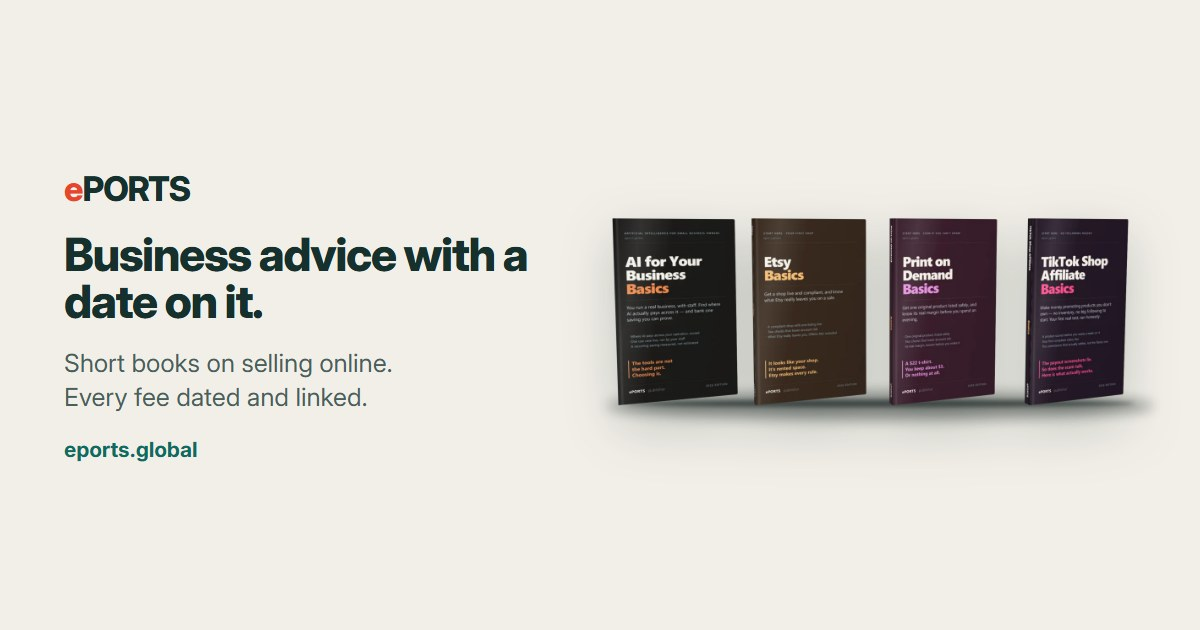
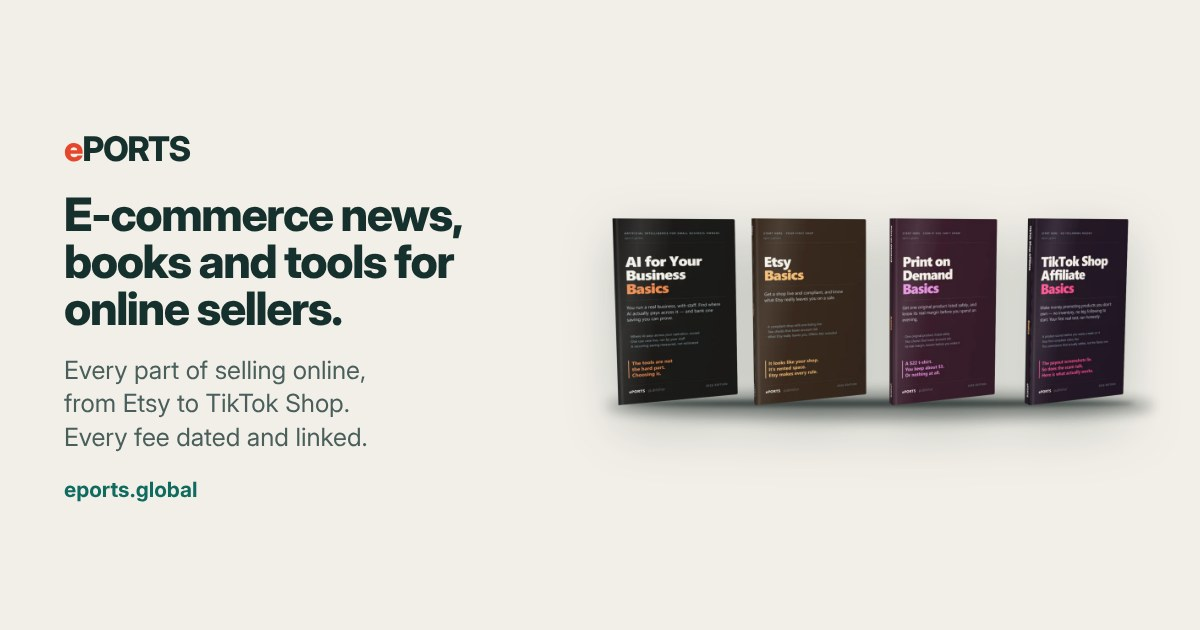
Present ePORTS as e-commerce news, books and tools: panel-checked home and About wording (eports PR #18, #21; Femi approved on the To-Do 30 Oct)
Claude-Session: https://claude.ai/code/session_017irjDCnJdX2Kb2GspifC1h

Changed region(s): [[0.0308, 0.2111, 0.4625, 0.5127], [0.0308, 0.5429, 0.3392, 0.8143]]

diff --git a/index.html b/index.html
@@ -3,8 +3,8 @@
 <head>
 <meta charset="utf-8">
 <meta name="viewport" content="width=device-width, initial-scale=1">
-<title>ePORTS — business advice with a date on it</title>
-<meta name="description" content="Your ecom source: dated, sourced news for online sellers, plus short, honest books in eight subjects and three levels. Every fee, rate and platform rule carries the date it was last checked and a link to the platform's own page, and every book comes with free worksheets and calculators.">
+<title>ePORTS — e-commerce news, books and tools for online sellers</title>
+<meta name="description" content="Your ecom source: e-commerce news, books and free tools covering every part of selling online, from Etsy, eBay and reselling to print on demand, dropshipping, digital products, TikTok Shop and AI for small business. Every fee and rule is dated and sourced.">
 <link rel="canonical" href="https://eports.global/">
 <meta name="robots" content="index,follow">
 <meta name="p:domain_verify" content="76d588c31ff83453374175ef60677462"/>
@@ -28,21 +28,21 @@
 <link rel="stylesheet" href="./assets/shell.css?v=20261027">
 <meta property="og:type" content="website">
 <meta property="og:site_name" content="ePORTS">
-<meta property="og:title" content="ePORTS — business advice with a date on it">
-<meta property="og:description" content="Your ecom source: dated, sourced news for online sellers, plus short, honest books in eight subjects and three levels. Every fee, rate and platform rule carries the date it was last checked and a link to the platform&#x27;s own page, and every book comes with free worksheets and calculators.">
+<meta property="og:title" content="ePORTS — e-commerce news, books and tools for online sellers">
+<meta property="og:description" content="Your ecom source: e-commerce news, books and free tools covering every part of selling online, from Etsy, eBay and reselling to print on demand, dropshipping, digital products, TikTok Shop and AI for small business. Every fee and rule is dated and sourced.">
 <meta property="og:url" content="https://eports.global/">
 <meta property="og:image" content="https://eports.global/assets/share/home.jpg">
 <meta property="og:image:secure_url" content="https://eports.global/assets/share/home.jpg">
 <meta property="og:image:type" content="image/jpeg">
 <meta property="og:image:width" content="1200">
 <meta property="og:image:height" content="630">
-<meta property="og:image:alt" content="ePORTS books and free tools: ePORTS — business advice with a date on it">
+<meta property="og:image:alt" content="ePORTS books and free tools: ePORTS — e-commerce news, books and tools for online sellers">
 <meta name="twitter:card" content="summary_large_image">
-<meta name="twitter:title" content="ePORTS — business advice with a date on it">
-<meta name="twitter:description" content="Your ecom source: dated, sourced news for online sellers, plus short, honest books in eight subjects and three levels. Every fee, rate and platform rule carries the date it was last checked and a link to the platform&#x27;s own page, and every book comes with free worksheets and calculators.">
+<meta name="twitter:title" content="ePORTS — e-commerce news, books and tools for online sellers">
+<meta name="twitter:description" content="Your ecom source: e-commerce news, books and free tools covering every part of selling online, from Etsy, eBay and reselling to print on demand, dropshipping, digital products, TikTok Shop and AI for small business. Every fee and rule is dated and sourced.">
 <meta name="twitter:image" content="https://eports.global/assets/share/home.jpg">
-<meta name="twitter:image:alt" content="ePORTS books and free tools: ePORTS — business advice with a date on it">
-<!--ep-seo--><script type="application/ld+json">{"@context": "https://schema.org", "@graph": [{"@type": "Organization", "@id": "https://eports.global/#org", "name": "ePORTS", "legalName": "ePORTS LLC", "url": "https://eports.global/", "slogan": "your ecom source.", "logo": "https://eports.global/assets/share/home.jpg", "description": "Dated, sourced news, short guidebooks and free tools for people who sell online. Every fee and platform rule carries the date it was last checked and a link to its source.", "sameAs": ["https://shop.eports.global/"]}, {"@type": "WebSite", "@id": "https://eports.global/#site", "name": "ePORTS", "url": "https://eports.global/", "publisher": {"@id": "https://eports.global/#org"}, "inLanguage": "en-US"}]}</script>
+<meta name="twitter:image:alt" content="ePORTS books and free tools: ePORTS — e-commerce news, books and tools for online sellers">
+<!--ep-seo--><script type="application/ld+json">{"@context": "https://schema.org", "@graph": [{"@type": "Organization", "@id": "https://eports.global/#org", "name": "ePORTS", "legalName": "ePORTS LLC", "url": "https://eports.global/", "slogan": "your ecom source.", "logo": "https://eports.global/assets/share/home.jpg", "description": "E-commerce news and products for people who sell online: news, short guidebooks and free tools covering every part of e-commerce. Every fee and platform rule carries the date it was last checked and a link to its source.", "sameAs": ["https://shop.eports.global/"]}, {"@type": "WebSite", "@id": "https://eports.global/#site", "name": "ePORTS", "url": "https://eports.global/", "publisher": {"@id": "https://eports.global/#org"}, "inLanguage": "en-US"}]}</script>
 </head>
 <body>
 <!--ep-shell:head-->
@@ -64,16 +64,16 @@
   <div class="wb-wrap wb-hero-split">
     <div style="display:grid;gap:1.15rem">
       <p class="wb-eyebrow">News · Books · Free tools</p>
-      <h1 id="title">Business advice with a <span class="wb-scribble">date<svg viewBox="0 0 100 12" preserveAspectRatio="none" aria-hidden="true"><path d="M2 8 C 22 3, 48 11, 98 4"/></svg></span> on it.</h1>
-      <p class="wb-lede">Every fee and every platform rule in our news, books and tools carries <em>the date we
-        last checked it</em>, plus a link to the page we checked it on. So you never have to take our word for
-        anything.</p>
+      <h1 id="title">E-commerce news, books and tools for online sellers.</h1>
+      <p class="wb-lede">News, books and free tools for every part of selling online: Etsy, eBay and reselling, print
+        on demand, dropshipping, digital products, TikTok Shop and AI for small business. Every fee and rule carries
+        <em>the date we checked it</em> and a link to the source.</p>
       <div class="wb-actions">
-        <a class="wb-btn" href="resources/">See the current fees and rules</a>
-        <a class="wb-btn-quiet" href="#books">Browse the 8 subjects →</a>
+        <a class="wb-btn" href="news/">Read the latest news</a>
+        <a class="wb-btn-quiet" href="#books">Explore all 8 subjects →</a>
       </div>
-      <p class="wb-lede" style="font-size:.95rem">No cost, no email, no sign-up. It&rsquo;s the actual page we keep
-        current, not a sample chapter with the useful part removed.</p>
+      <p class="wb-lede" style="font-size:.95rem">The news, <a href="resources/">tools and fee pages</a> are free.
+        No email or sign-up needed.</p>
     </div>
     <figure class="wb-render">
       <img src="assets/renders/hero-mix.webp" alt="Four ePORTS books: AI for Your Business, Etsy, Print on Demand and TikTok Shop Affiliate, each at Basics level" width="1400" height="688">

diff --git a/about/index.html b/about/index.html
@@ -4,7 +4,7 @@
 <meta charset="utf-8">
 <meta name="viewport" content="width=device-width, initial-scale=1">
 <title>About ePORTS: who we are, how we check, and corrections | ePORTS</title>
-<meta name="description" content="Who publishes ePORTS, who edits it, how we check, the rules every article follows, and how to report an error. Plain English.">
+<meta name="description" content="About ePORTS, an e-commerce news and products business covering every part of selling online: who publishes and edits it, how we check, and how to report an error.">
 <link rel="canonical" href="https://eports.global/about/">
 <link rel="stylesheet" href="../assets/fonts/fonts.css">
 <link rel="stylesheet" href="../assets/workbench.css">
@@ -15,7 +15,7 @@
 <meta property="og:type" content="website">
 <meta property="og:site_name" content="ePORTS">
 <meta property="og:title" content="About ePORTS: who we are, how we check, and corrections | ePORTS">
-<meta property="og:description" content="Who publishes ePORTS, who edits it, how we check, the rules every article follows, and how to report an error. Plain English.">
+<meta property="og:description" content="About ePORTS, an e-commerce news and products business covering every part of selling online: who publishes and edits it, how we check, and how to report an error.">
 <meta property="og:url" content="https://eports.global/about/">
 <meta property="og:image" content="https://eports.global/assets/share/home.jpg">
 <meta property="og:image:secure_url" content="https://eports.global/assets/share/home.jpg">
@@ -25,11 +25,11 @@
 <meta property="og:image:alt" content="ePORTS books and free tools: About ePORTS: who we are, how we check, and corrections">
 <meta name="twitter:card" content="summary_large_image">
 <meta name="twitter:title" content="About ePORTS: who we are, how we check, and corrections | ePORTS">
-<meta name="twitter:description" content="Who publishes ePORTS, who edits it, how we check, the rules every article follows, and how to report an error. Plain English.">
+<meta name="twitter:description" content="About ePORTS, an e-commerce news and products business covering every part of selling online: who publishes and edits it, how we check, and how to report an error.">
 <meta name="twitter:image" content="https://eports.global/assets/share/home.jpg">
 <meta name="twitter:image:alt" content="ePORTS books and free tools: About ePORTS: who we are, how we check, and corrections">
 <meta name="robots" content="max-image-preview:large">
-<!--ep-seo--><script type="application/ld+json">{"@context": "https://schema.org", "@graph": [{"@type": "Organization", "@id": "https://eports.global/#org", "name": "ePORTS", "legalName": "ePORTS LLC", "url": "https://eports.global/", "slogan": "your ecom source.", "logo": "https://eports.global/assets/share/home.jpg", "description": "Dated, sourced news, short guidebooks and free tools for people who sell online. Every fee and platform rule carries the date it was last checked and a link to its source.", "sameAs": ["https://shop.eports.global/"]}, {"@type": "WebSite", "@id": "https://eports.global/#site", "name": "ePORTS", "url": "https://eports.global/", "publisher": {"@id": "https://eports.global/#org"}, "inLanguage": "en-US"}]}</script><script type="application/ld+json">{"@context": "https://schema.org", "@type": "BreadcrumbList", "itemListElement": [{"@type": "ListItem", "position": 1, "name": "ePORTS", "item": "https://eports.global/"}, {"@type": "ListItem", "position": 2, "name": "About ePORTS: who we are, how we check, and corrections", "item": "https://eports.global/about/"}]}</script>
+<!--ep-seo--><script type="application/ld+json">{"@context": "https://schema.org", "@graph": [{"@type": "Organization", "@id": "https://eports.global/#org", "name": "ePORTS", "legalName": "ePORTS LLC", "url": "https://eports.global/", "slogan": "your ecom source.", "logo": "https://eports.global/assets/share/home.jpg", "description": "E-commerce news and products for people who sell online: news, short guidebooks and free tools covering every part of e-commerce. Every fee and platform rule carries the date it was last checked and a link to its source.", "sameAs": ["https://shop.eports.global/"]}, {"@type": "WebSite", "@id": "https://eports.global/#site", "name": "ePORTS", "url": "https://eports.global/", "publisher": {"@id": "https://eports.global/#org"}, "inLanguage": "en-US"}]}</script><script type="application/ld+json">{"@context": "https://schema.org", "@type": "BreadcrumbList", "itemListElement": [{"@type": "ListItem", "position": 1, "name": "ePORTS", "item": "https://eports.global/"}, {"@type": "ListItem", "position": 2, "name": "About ePORTS: who we are, how we check, and corrections", "item": "https://eports.global/about/"}]}</script>
 </head>
 <body>
 <!--ep-shell:head-->
@@ -50,9 +50,10 @@
   <div class="wb-wrap">
     <p class="wb-eyebrow">About ePORTS</p>
     <h1 id="title">Who we are, and how we check</h1>
-    <p class="wb-lede">ePORTS publishes short, practical guides and news for people who sell online, or are thinking about
-      it. <em>Every fee, rate and rule we print carries the date we checked it and a link to the page it came from,</em>
-      so you never have to take our word for anything.</p>
+    <p class="wb-lede">ePORTS publishes e-commerce news, books and tools for people who sell online, or want to start.
+      We cover every part of it, from Etsy, eBay and reselling to print on demand, dropshipping, digital products,
+      TikTok Shop and AI for small business. <em>Every fee, rate and rule we print carries the date we checked it and a
+      link to the page it came from,</em> so you can check it yourself.</p>
   </div>
 </section>
 

diff --git a/news/index.html b/news/index.html
@@ -4,7 +4,7 @@
 <meta charset="utf-8">
 <meta name="viewport" content="width=device-width, initial-scale=1">
 <title>Newsroom: what changed for online sellers | ePORTS</title>
-<meta name="description" content="Dated, sourced news for people who sell online: fee changes, platform rules and the real numbers, checked against the platform&#x27;s own page.">
+<meta name="description" content="E-commerce news for people who sell online: platform changes, new rules, costs and opportunities across every part of selling online, each checked against its source.">
 <link rel="canonical" href="https://eports.global/news/">
 <link rel="alternate" type="application/rss+xml" title="ePORTS Newsroom" href="https://eports.global/news/feed.xml">
 <link rel="stylesheet" href="../assets/fonts/fonts.css">

diff --git a/404.html b/404.html
@@ -32,7 +32,7 @@
     <p class="ep-legal">Checked by a person before it&rsquo;s published. Nothing here is legal, tax or financial advice. Fees and policies carry the date they were last checked and a link to the source, so you can verify them rather than trust them. ePORTS&trade; is a trademark of ePORTS LLC.</p>
   </div>
 </footer>
-<script defer src="./assets/stats.js?v=20261028"></script>
+<script defer src="/assets/stats.js?v=20261028"></script>
 <!--/ep-shell:foot-->
 </body>
 </html>
